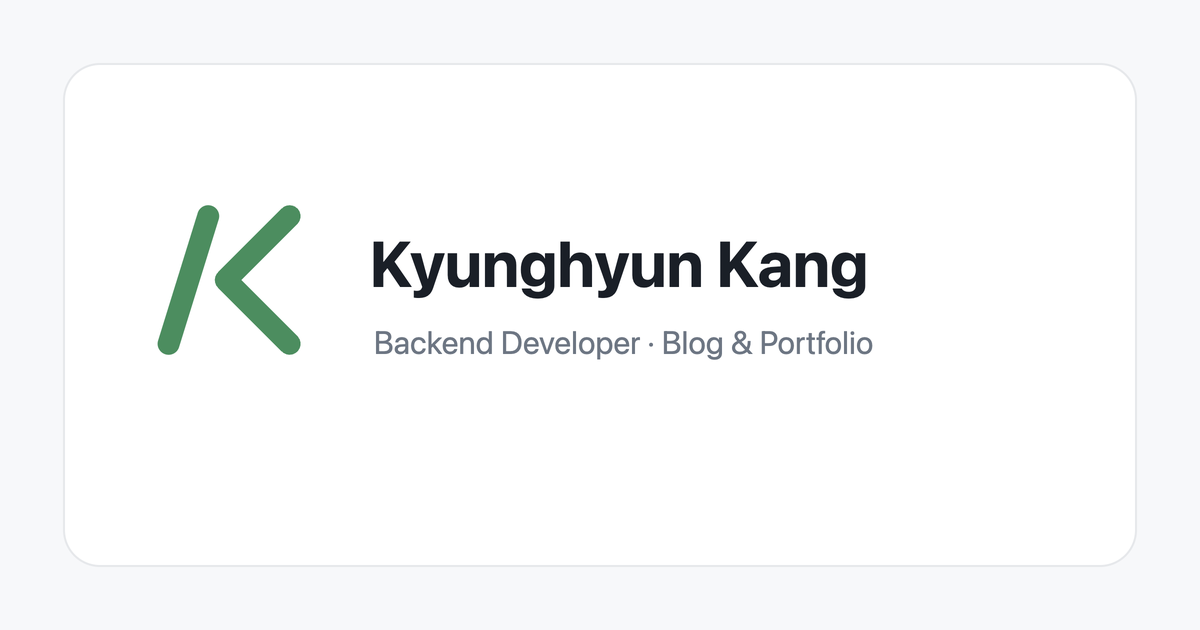
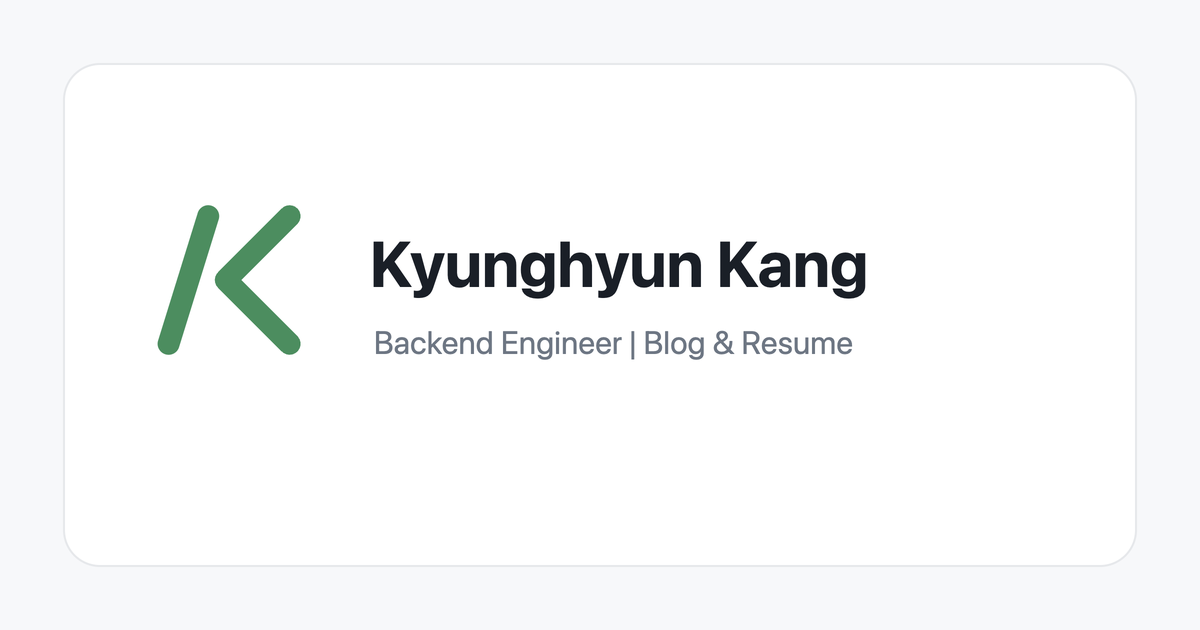
Design: 페이지 제목을 '강경현 | ...'로 통일하고 공유 이미지 문구를 Blog & Resume로 변경

Changed region(s): [[0.4317, 0.5127, 0.74, 0.573]]

diff --git a/src/pages/rss.xml.ts b/src/pages/rss.xml.ts
@@ -10,7 +10,7 @@ export const GET: APIRoute = async ({ site }) => {
 	);
 
 	return rss({
-		title: '강경현 블로그',
+		title: '강경현 | 블로그',
 		description: '개발하며 겪은 문제와 그때 내린 결정을 기록합니다.',
 		site: origin,
 		xmlns: { atom: 'http://www.w3.org/2005/Atom' },
